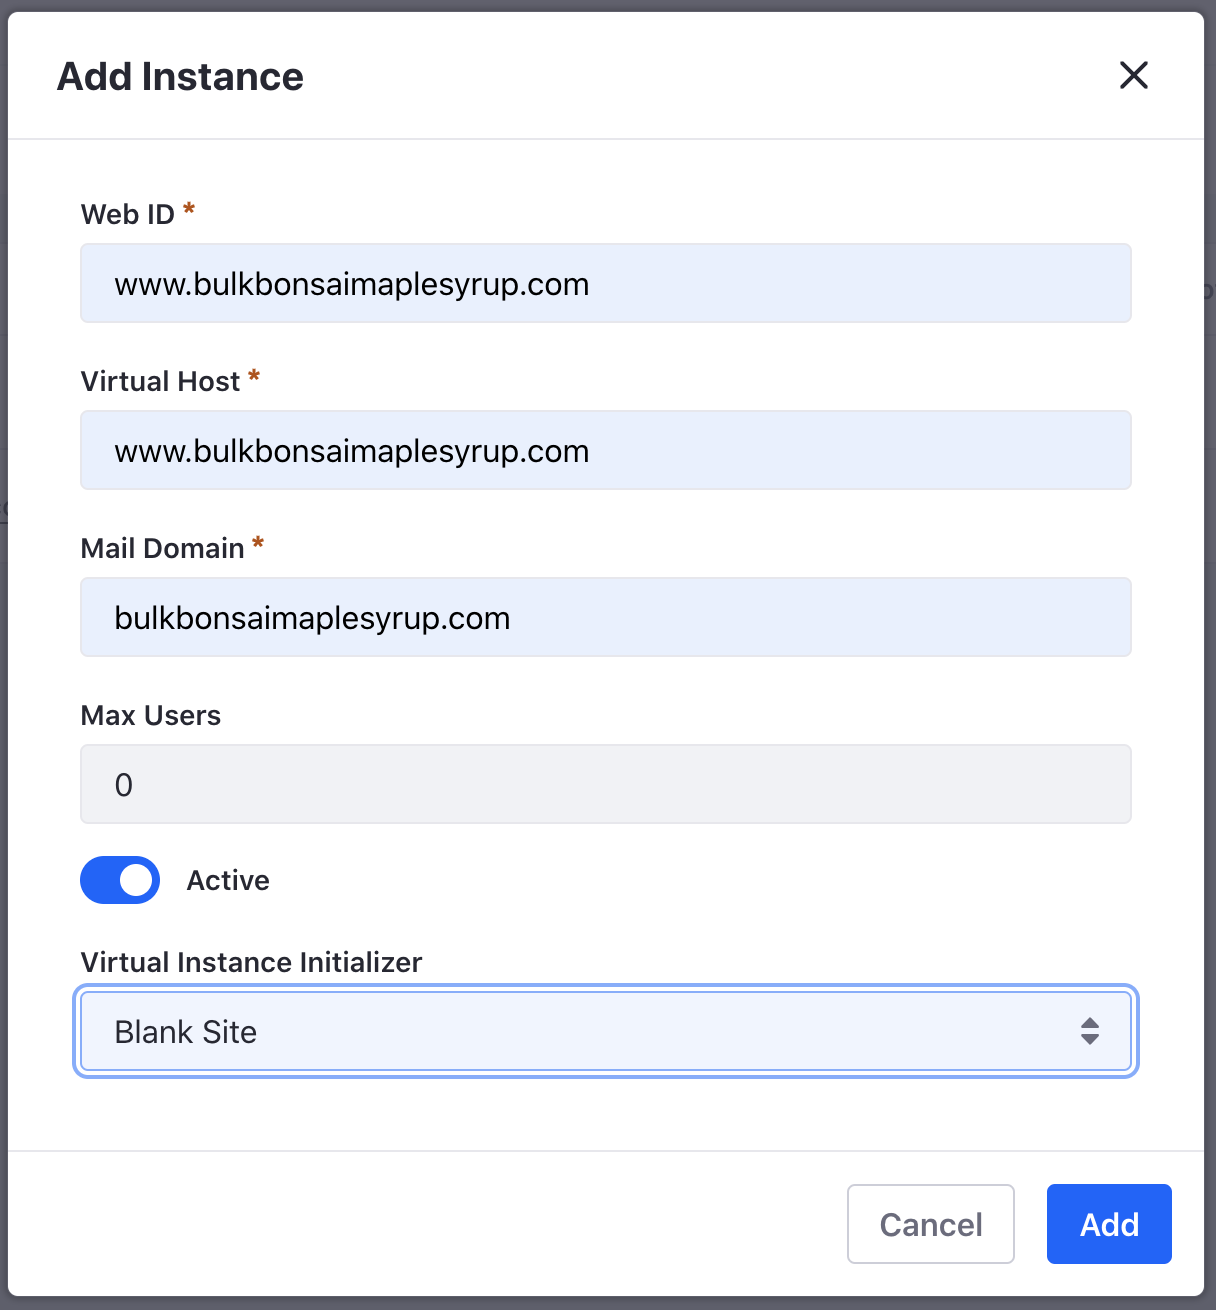
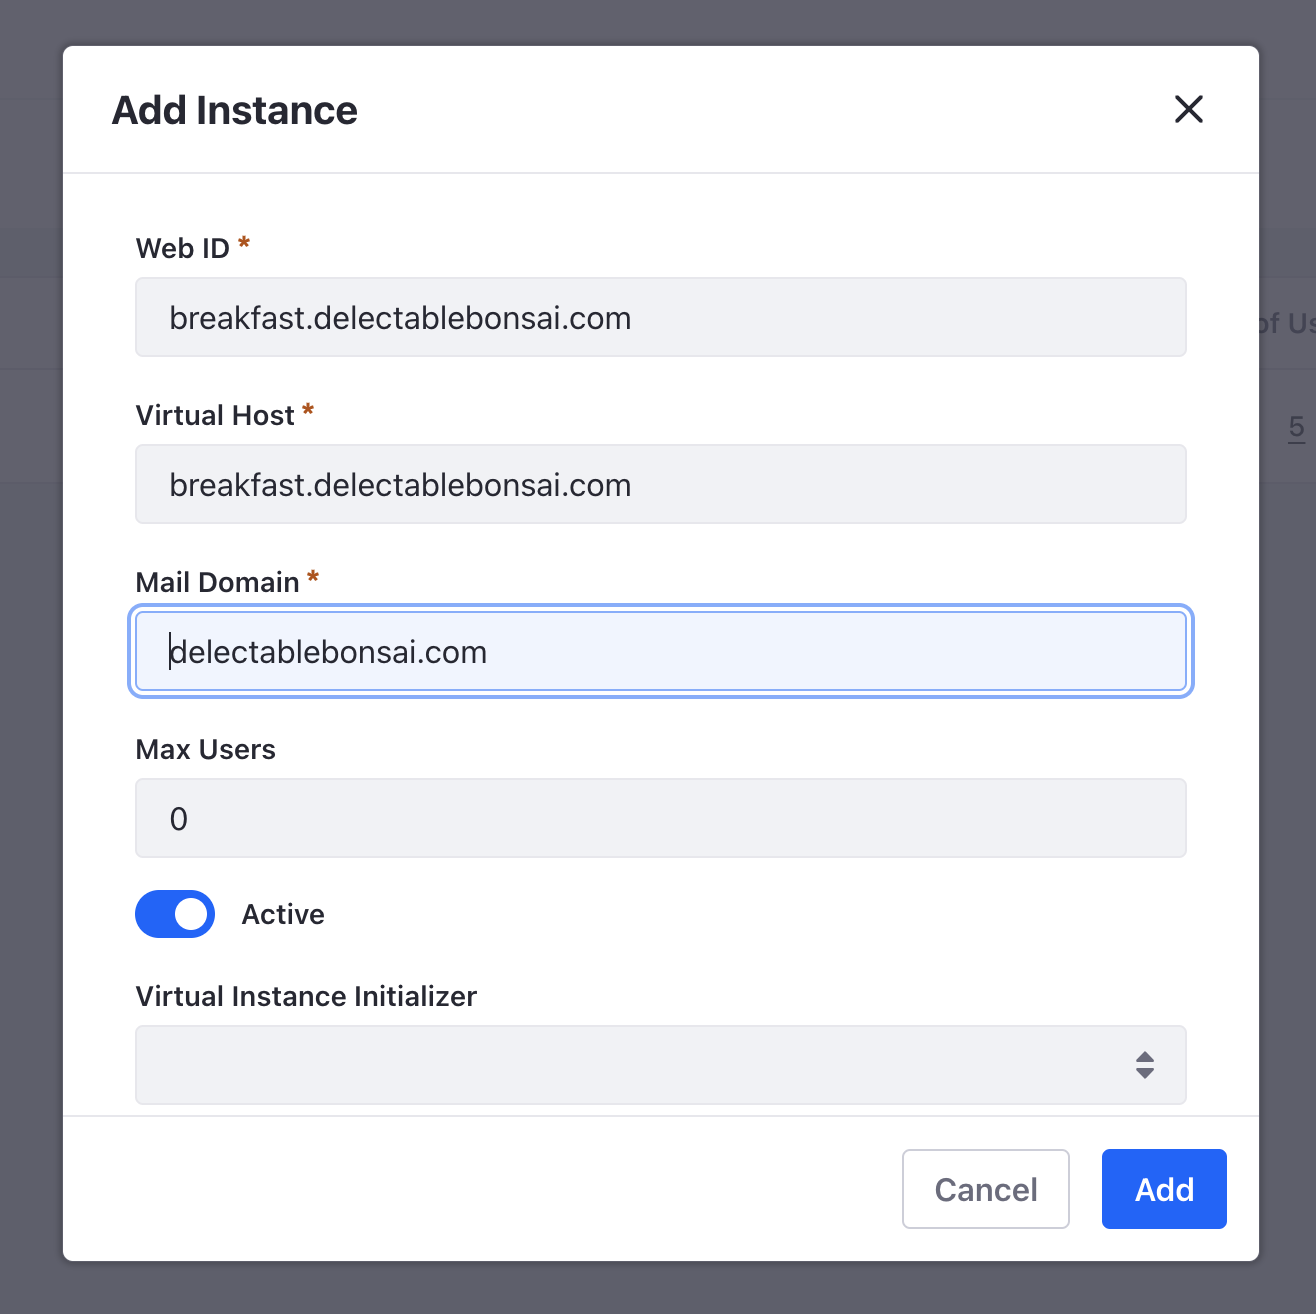
LRDOCS-11502 small fixes and update screenshots

Changed region(s): [[0.0, 0.0, 1.0, 1.0], [0.125, 0.6107, 0.1562, 0.6412]]

diff --git a/docs/courses/latest/en/liferay-administrator/security/securing-web-services/cross-origin-resource-sharing.md b/docs/courses/latest/en/liferay-administrator/security/securing-web-services/cross-origin-resource-sharing.md
@@ -9,20 +9,20 @@ Delectable Bonsai may choose to create a [Liferay object](https://learn.liferay.
 
 1. Create a Liferay object.
 
-   * Navigate to _Global Menu_ (![Global Menu](../../images/icon-applications-menu.png)) &rarr; _Control Panel_ &rarr; _Objects_.
-   * Click _Add_ (![Add icon](../../images/icon-add.png)).
+   * Navigate to _Global Menu_ (![Global Menu](../../../images/icon-applications-menu.png)) &rarr; _Control Panel_ &rarr; _Objects_.
+   * Click _Add_ (![Add icon](../../../images/icon-add.png)).
    * Enter the following object:
      * Label: `J4X7-Object`
      * Plural Label: `J4X7-Objects`
      * Name: `J4X7Object`
    * Click _Save_.
    * Select the J4X7-Object you just created. Click the _Fields_ tab.
-   * Click _Add_ (![Add icon](../../images/icon-add.png)) and add the following field:
+   * Click _Add_ (![Add icon](../../../images/icon-add.png)) and add the following field:
      * Label: `name`
      * Field Name: `name`
      * Type: `Text`
    * Click _Save_.
-   * Click _Add_ (![Add icon](../../images/icon-add.png)) and add the following field:
+   * Click _Add_ (![Add icon](../../../images/icon-add.png)) and add the following field:
      * Label: `description`
      * Field Name: `description`
      * Type: `Text`
@@ -59,7 +59,7 @@ Delectable Bonsai may choose to create a [Liferay object](https://learn.liferay.
 
    See that the entry was prevented from being added.
 
-1. In Liferay, navigate to _Global Menu_ (![Global Menu](../../images/icon-applications-menu.png)) &rarr; _Control Panel_ &rarr; _Instance Settings_.
+1. In Liferay, navigate to _Global Menu_ (![Global Menu](../../../images/icon-applications-menu.png)) &rarr; _Control Panel_ &rarr; _Instance Settings_.
 
 1. Add a CORS policy for the object.
 

diff --git a/docs/courses/latest/en/liferay-administrator/configuration/configuring-instance-settings.md b/docs/courses/latest/en/liferay-administrator/configuration/configuring-instance-settings.md
@@ -5,11 +5,11 @@ uuid: 64a5a655-0a6a-4d41-866a-7be3e5a513bf
 
 Liferay instances share the same installation but are configured to serve unique digital experiences from different domain names. Each instance has its own settings. 
 
-Here, you'll configure the user authentication settings for the virtual instance you created in the previous step. For `www.bulkbonsaimaplesyeup.com`, Delectable Bonsai wants to prevent guests from creating user accounts. Instead, accounts are created by account managers for each buyer.
+Here, you'll configure the user authentication settings for the virtual instance you created in the previous step. For `breakfast.delectablebonsai.com`, Delectable Bonsai wants to prevent guests from creating user accounts. Instead, accounts are created by account managers for each buyer.
 
 ## Configuring User Authentication
 
-1. Navigate to `www.bulkbonsaimaplesyrup.com` instance you created in the previous step.
+1. Navigate to `breakfast.delectablebonsai.com` instance you created in the previous step.
 
 1. Navigate to _Global Menu_ (![Global Menu](../../images/icon-applications-menu.png)) &rarr; _Control Panel_ &rarr; _Instance Settings_. Under _Platform_, select _User Authentication_.
 

diff --git a/docs/courses/latest/en/liferay-administrator/security/authentication/configuring-mfa.md b/docs/courses/latest/en/liferay-administrator/security/authentication/configuring-mfa.md
@@ -15,7 +15,7 @@ Delectable Bonsai has come a long way from its days at the farmer's market. Now 
 
 1. Log into Liferay as the administrator (i.e. [Kyle Klein](../users-accounts-organizations/managing-users.md#creating-users)).
 
-1. Next, navigate to _Global Menu_ (![Global Menu](../../images/icon-applications-menu.png)) &rarr; _Control Panel_ &rarr; _Instance Settings_. Click _Multi-Factor Authentication_ under the security section.
+1. Next, navigate to _Global Menu_ (![Global Menu](../../../images/icon-applications-menu.png)) &rarr; _Control Panel_ &rarr; _Instance Settings_. Click _Multi-Factor Authentication_ under the security section.
 
 1. Tick the _Enabled_ box and click _Save_. See [Enabling Multi-Factor Authentication](https://learn.liferay.com/w/dxp/installation-and-upgrades/securing-liferay/multi-factor-authentication/using-multi-factor-authentication#enabling-multi-factor-authentication) to learn more about the configuration options.
 

diff --git a/docs/courses/latest/en/liferay-administrator/security/securing-web-services/service-access-policies.md b/docs/courses/latest/en/liferay-administrator/security/securing-web-services/service-access-policies.md
@@ -20,9 +20,9 @@ The example below is for demonstration purposes only. Granting access to these s
 
    Note, that a forbidden error response is returned.
 
-1. Navigate to _Global Menu_ (![Global Menu](../../images/icon-applications-menu.png)) &rarr; _Control Panel_ &rarr; _Service Access Policy_.
+1. Navigate to _Global Menu_ (![Global Menu](../../../images/icon-applications-menu.png)) &rarr; _Control Panel_ &rarr; _Service Access Policy_.
 
-1. Click _Add_ (![Add icon](../../images/icon-add.png)).
+1. Click _Add_ (![Add icon](../../../images/icon-add.png)).
 
 1. Configure the new policy as follows:
 

diff --git a/docs/courses/latest/en/liferay-administrator/user-data.md b/docs/courses/latest/en/liferay-administrator/user-data.md
@@ -17,4 +17,4 @@ As customers come and go, you can use Liferay's user data management tools to he
 * Understand the personal data that accumulates on your system
 * Use Liferay's GDPR tools
 
-[Let's Go!](./user-data/connecting-to-ldap.md).
+[Let's Go!](./user-data/connecting-to-ldap.md)
